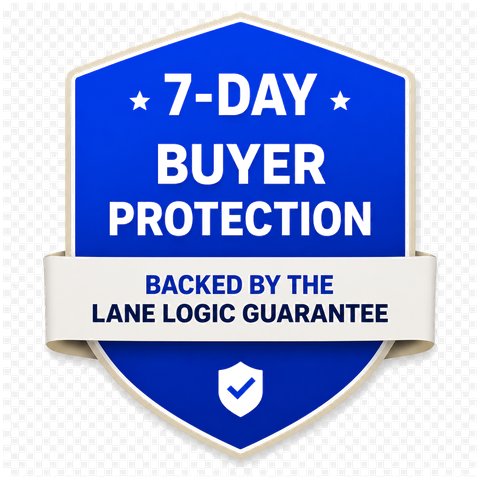
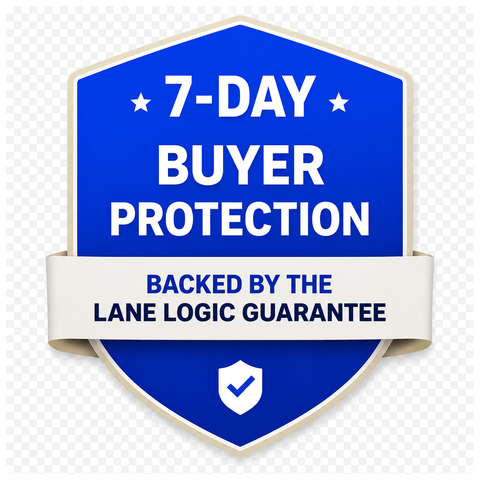
Give the 7-day protection badge an opaque white background.
Removes remaining transparency around the Listings section seal so it renders cleanly.

diff --git a/index.html b/index.html
@@ -381,7 +381,7 @@
             />
             <img
               class="hl-listings__badge"
-              src="assets/home-listings/badge-7day.png"
+              src="assets/home-listings/badge-7day.png?v=2"
               alt="7-Day Buyer Protection — Backed by the Lane Logic Guarantee"
               loading="lazy"
               width="320"